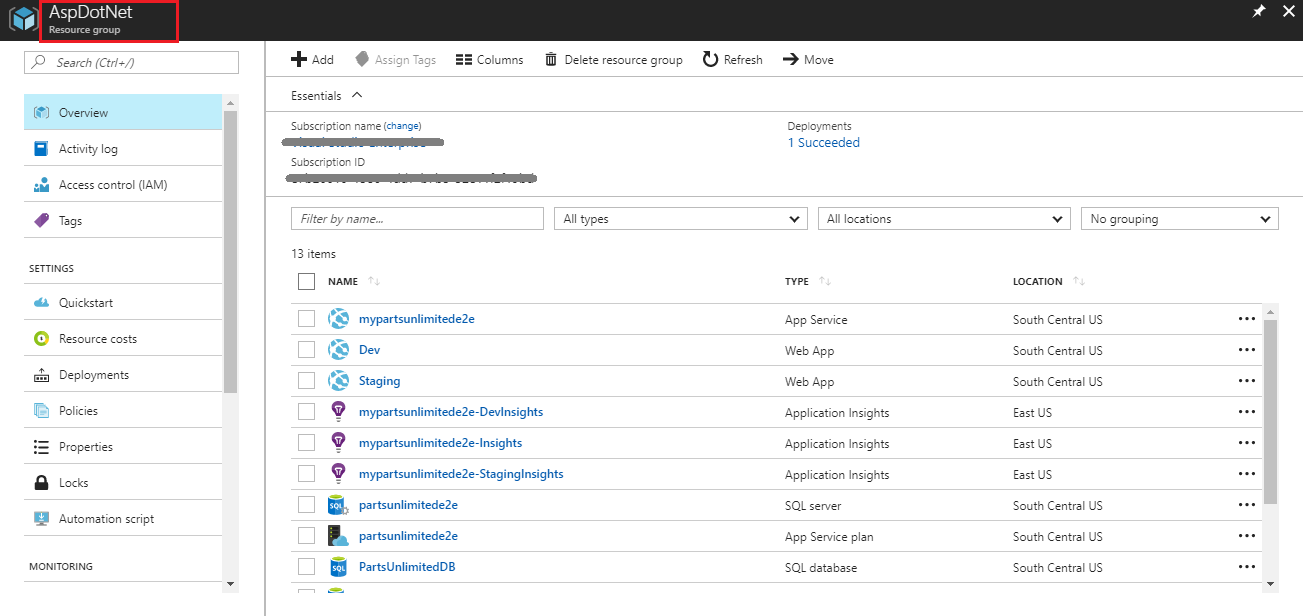
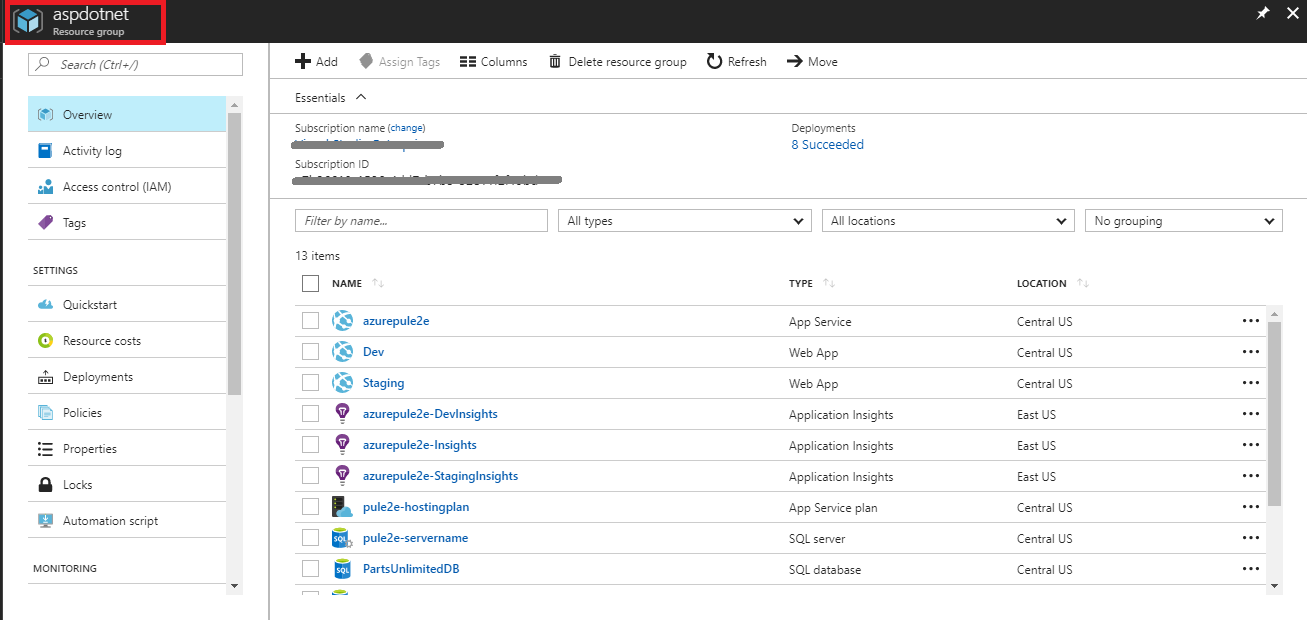
update contents

diff --git a/README.md b/README.md
@@ -4,9 +4,9 @@ This lab shows how you can deploy an **ASP.Net application to Azure App Service 
 
 ## Pre-requisites
 
-1. Microsoft Azure Account:</b> You will need a valid and active azure account for the labs.
+1. **Microsoft Azure Account:** You will need a valid and active azure account for the labs
 
-2. You need a <b>Visual Studio Team Services Account</b> and <a href="http://bit.ly/2gBL4r4">Personal Access Token</a>
+2. You need a **Visual Studio Team Services Account** and <a href="http://bit.ly/2gBL4r4">Personal Access Token</a>
 
 
 ## Setting up the project
@@ -15,28 +15,28 @@ This lab shows how you can deploy an **ASP.Net application to Azure App Service 
 
    ![](images/1.png)
 
-2. Select **PartsUnlimited** for the template
+2. Select **PartsUnlimited** for the template.
 
    ![](images/2.png)
 
-3. Once the project is provisioned, select the URL to navigate to the project that you provisioned
+3. Once the project is provisioned, select the URL to navigate to the project that you provisioned.
 
 
 ## Configuring the CI/CD pipeline
 
-1. Let's start from code . Navigate to the **Code** hub 
+1. Let's start from code. Navigate to the **Code** hub.
 
    <img src="images/4.png">
 
-2. We have an ASP.NET app code provisioned by the demo generator system. We will deploy this to Azure app service
+2. We have an **ASP.NET** app code provisioned by the demo generator system. We will deploy this to Azure app service.
 
-3. We have a Continious Integration (CI) build setup to run upon a code commit. Let's make a simple change to the code to trigger the CI build
+3. We have a Continious Integration (CI) build setup to run upon a code commit. Let's make a simple change to the code to trigger the CI build.
 
 4. Open the file **Index.cshtml** by navigating to the path **PartsUnlimited-aspnet45/src/PartsUnlimitedWebsite/Views/Home/Index.cshtml**
 
    <img src="images/5.png">
 
-5. Edit the code. For this example, let's change line 28 to increase discount from **50%** to **70%** 
+5. Edit the code. For this example, let's change **line 28** to increase discount from **50%** to **70%** 
 
    <img src="images/6.png">
 
@@ -86,7 +86,7 @@ This lab shows how you can deploy an **ASP.Net application to Azure App Service 
 
 ## Continuous Delivery
 
-We have a relase pipeline configured to deploy the application. It is associated to the build and triggered when the build is successful. Let's look at the release pipeline.
+We have a release pipeline configured to deploy the application. It is associated to the build and triggered when the build is successful. Let's look at the release pipeline.
 
 1. Navigate to the **Releases** tab under **Build and Release** hub.
 
@@ -116,12 +116,22 @@ We have a relase pipeline configured to deploy the application. It is associated
    <tr>
    </table>
 
-We are using **Infrastructure as a Code** in the release pipeline with an ARM template to provision the required infrastructure (Web App and SQL database) on Azure. 
+We are using **Infrastructure as a Code** in the release pipeline with an ARM template to provision the required infrastructure (Web App and SQL database) on Azure.
 
-Once the release is successful, you can login to [Azure Portal](https://portal.azure.com) and search a **Resource Group** with the name **AspDotNet** that would have got created. It would be associated with few other resources like **SQL server, SQL DB, WebApps** etc as shown below.
+5. You can see an on going release as shown below.
 
-<img src="images/10.png">
+   <img src="images/13.png">
 
-Navigate to one of the WebApp from the resource group and you should see the application is deployed successfully with the changes made earlier as shown.
+6. Once the release is completed, you can see the summary which shows **Release Summary, logs etc**.
 
-<img src="images/11.png">
+   <img src="images/14.png">
+
+   <img src="images/15.png">
+
+7. Login to [Azure Portal](https://portal.azure.com) and search a **Resource Group** with the name **aspdotnet** that would have got created. It would be associated with few other resources like **SQL server, SQL DB, WebApps** etc as shown below.
+
+   <img src="images/10.png">
+
+8. Navigate to one of the WebApp from the resource group and you should see the application is deployed successfully with the changes made earlier as shown.
+
+   <img src="images/11.png">
